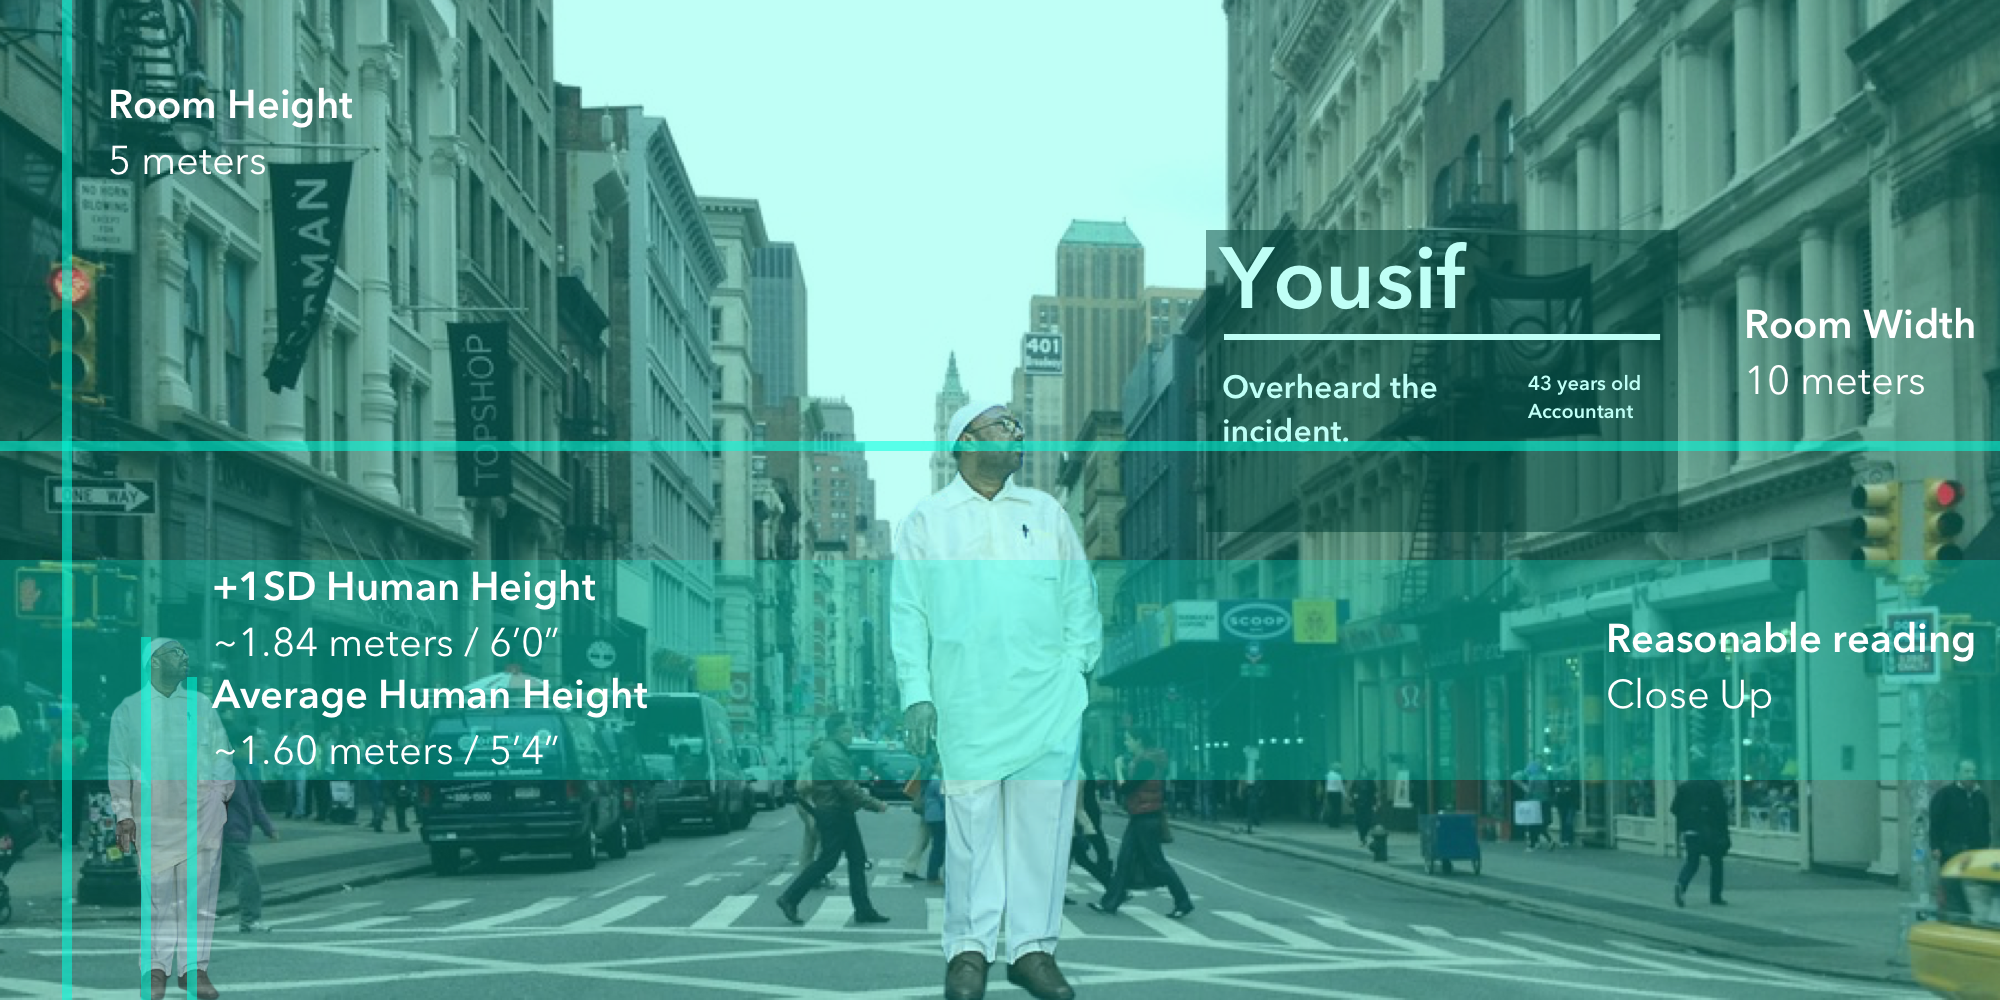
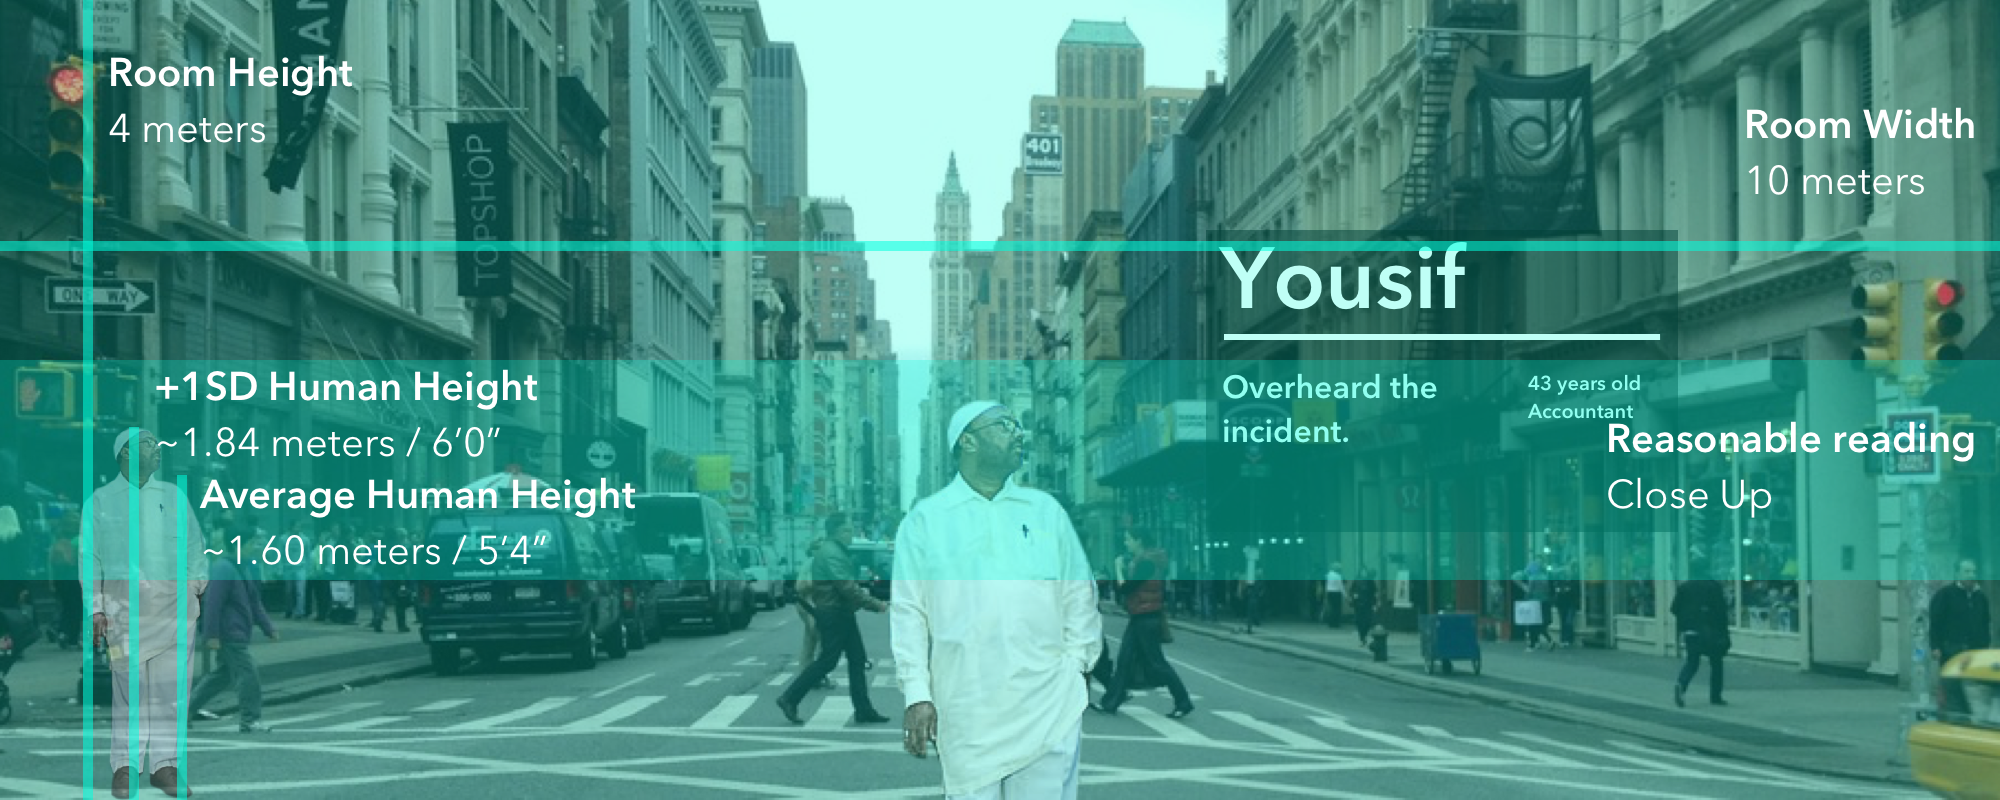
Updates

diff --git a/4--viewpoint.html b/4--viewpoint.html
@@ -19,7 +19,7 @@
       <!-- Global Settings -->
       <a-sky color="#111"></a-sky>
       <a-light type="ambient" color="#fff"></a-light>
-      <a-cube color="#333" position="0 0 0" scale="10 .5 10"></a-cube>
+      <a-cube color="#333" position="0 -.25 0" scale="10 .5 10"></a-cube>
       <a-entity position="0 1.6 4">
          <a-camera wasd-controls-enabled="true" look-controls-enabled="true"></a-camera>
       </a-entity>
@@ -32,25 +32,25 @@
             intensity: 3;
             angle:150">
          </a-entity>
-         <a-image src="assets/4/2-right@2x.png" height="5" width="10" position="4 2.5 3" rotation="0 0 0"></a-image>
+         <a-image src="assets/4/2-right@3x.jpg" height="4" width="10" position="4 2 3" rotation="0 0 0"></a-image>
          <!-- Walls -->
          <!-- Left -->
-         <a-image src="assets/4/2-left@2x.png" height="5" width="10" position="-5 2.5 0" rotation="0 90 0"></a-image>
+         <a-image src="assets/4/2-left@3x.jpg" height="5" width="10" position="-5 2.5 0" rotation="0 90 0"></a-image>
          <!-- Back -->
-         <a-image src="assets/4/1-back@2x.png" height="5" width="10" position="0 2.5 -5"></a-image>
+         <a-image src="assets/4/1-back@3x.jpg" height="5" width="10" position="0 2.5 -5"></a-image>
          <!-- Right -->
-         <a-image src="assets/4/2-right@2x.png" height="5" width="10" position="5 2.5 0" rotation="0 -90 0"></a-image>
+         <a-image src="assets/4/2-right@3x.jpg" height="4" width="10" position="5 2 0" rotation="0 -90 0"></a-image>
          <!-- Front -->
-         <a-image src="assets/4/1-front@2x.png" height="5" width="10" position="0 2.5 5" rotation="0 180 0"></a-image>
+         <a-image src="assets/4/1-front@3x.jpg" height="5" width="10" position="0 2.5 5" rotation="0 180 0"></a-image>
       </a-entity>
 
 
 
 
-      <!-- <a-curvedimage src="assets/img/1-@2x.png" radius="2.2" theta-length="360" height="3" rotation="0 210 0" scale="1 1 1" position="0 1.5 3"></a-curvedimage>
-      <a-curvedimage src="assets/img/interviewee-people-f@2x.png" radius="2" theta-length="360" height="3" rotation="0 210 0" scale="1 1 1" position="0 1.5 3"></a-curvedimage>
+      <!-- <a-curvedimage src="assets/img/1-@3x.jpg" radius="2.2" theta-length="360" height="3" rotation="0 210 0" scale="1 1 1" position="0 1.5 3"></a-curvedimage>
+      <a-curvedimage src="assets/img/interviewee-people-f@3x.jpg" radius="2" theta-length="360" height="3" rotation="0 210 0" scale="1 1 1" position="0 1.5 3"></a-curvedimage>
 
-      <a-curvedimage src="assets/img/interviewee-panel-question@2x.png" radius="2" theta-length="360" height="3" rotation="0 210 0" scale="1 1 1" position="4 1.5 3"></a-curvedimage> -->
+      <a-curvedimage src="assets/img/interviewee-panel-question@3x.jpg" radius="2" theta-length="360" height="3" rotation="0 210 0" scale="1 1 1" position="4 1.5 3"></a-curvedimage> -->
 
    </a-scene>
 </body>
